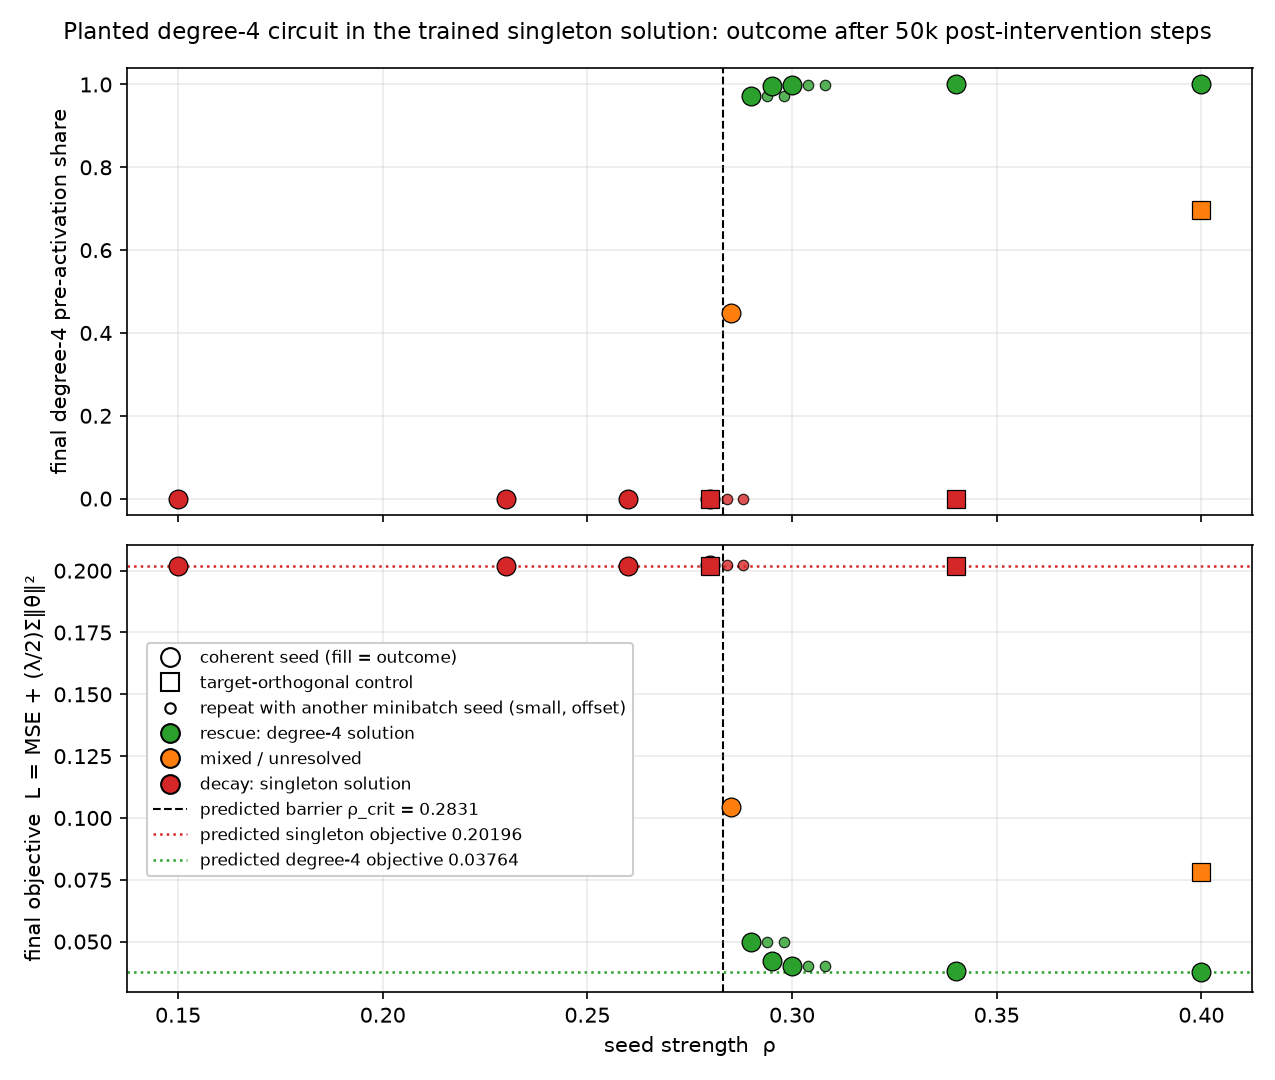
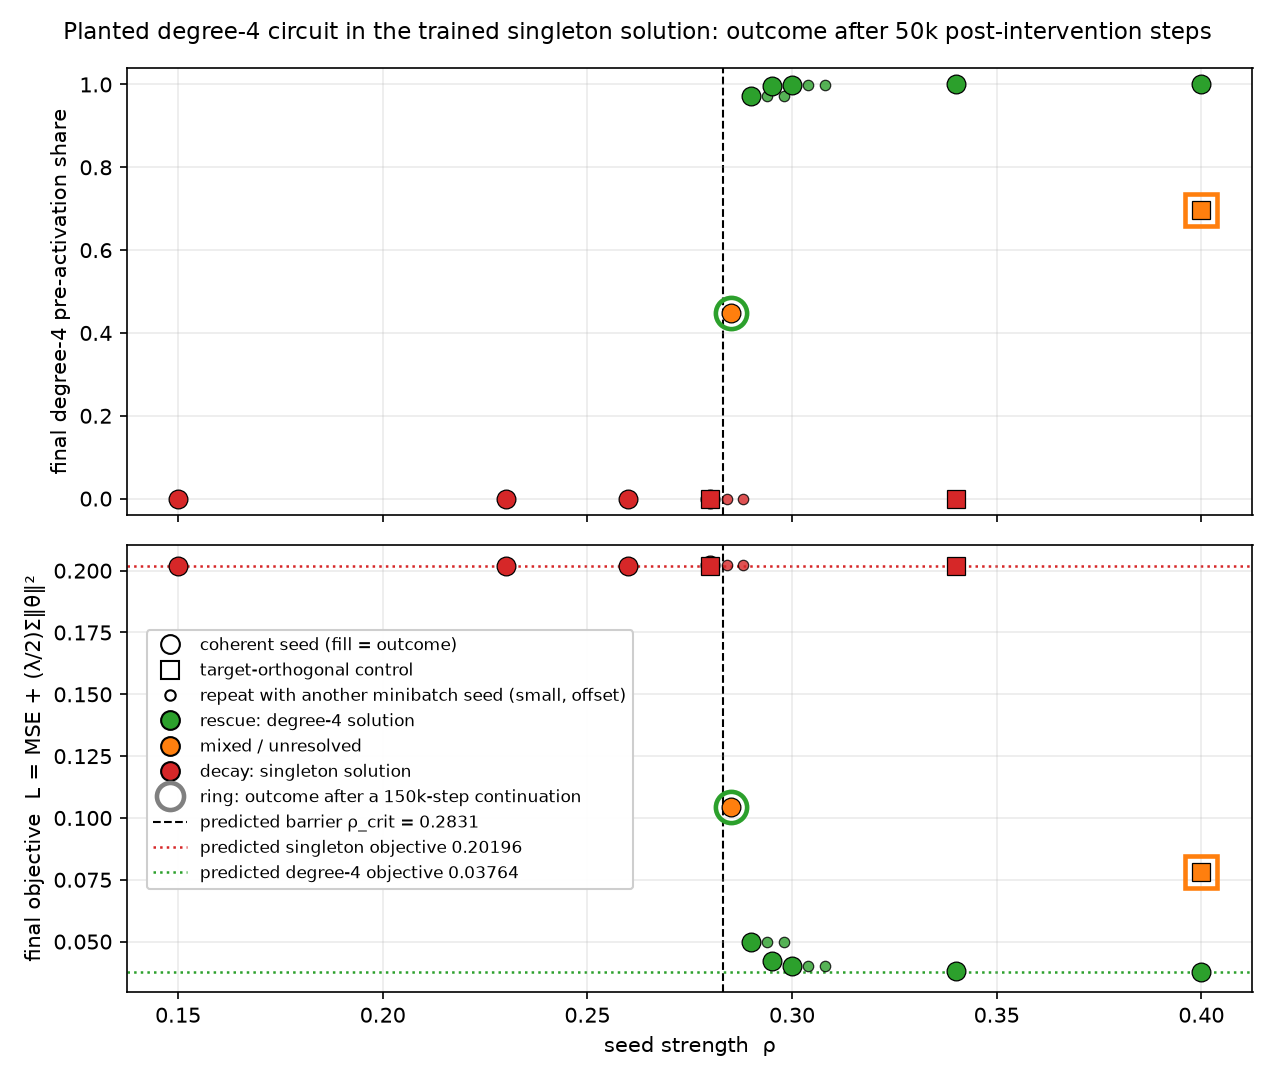
reports: planted degree-4 circuit experiment, final figures with 150k continuations and README

diff --git a/experiments/rank1_bottleneck/plot_plant_degree4.py b/experiments/rank1_bottleneck/plot_plant_degree4.py
@@ -69,6 +69,12 @@ def summary_figure(df: pd.DataFrame, out: str, tag: str) -> None:
                 primary = r.seed == base_seed
                 ax.plot(r.rho + (0 if primary else 0.004 * (seeds.index(r.seed))), r[col], marker,
                         ms=9 if primary else 5, mfc=OUTCOME_COLOR[r.outcome], mec="k", mew=0.6, alpha=1 if primary else 0.8, zorder=3)
+        # arms continued under another tag: ring in the continuation's outcome color
+        for _, r in df[(df.tag != tag) & (df.seed == base_seed)].iterrows():
+            m = main[(main.arm == r.arm) & (main.seed == base_seed)]
+            if len(m):
+                ax.plot(r.rho, m[col].iloc[0], "o" if r.kind == "coherent" else "s", ms=15, mfc="none",
+                        mec=OUTCOME_COLOR[r.outcome], mew=2.2, zorder=4)
         ax.axvline(RHO_CRIT, color="k", ls="--", lw=1, zorder=1)
         ax.grid(alpha=0.25); ax.set_ylabel(ylab)
     axes[0].set_ylim(-0.04, 1.04)
@@ -83,6 +89,7 @@ def summary_figure(df: pd.DataFrame, out: str, tag: str) -> None:
                Line2D([], [], marker="o", ls="", ms=9, mfc=OUTCOME_COLOR["rescue"], mec="k", label="rescue: degree-4 solution"),
                Line2D([], [], marker="o", ls="", ms=9, mfc=OUTCOME_COLOR["mixed"], mec="k", label="mixed / unresolved"),
                Line2D([], [], marker="o", ls="", ms=9, mfc=OUTCOME_COLOR["decay"], mec="k", label="decay: singleton solution"),
+               Line2D([], [], marker="o", ls="", ms=13, mfc="none", mec="gray", mew=2.2, label="ring: outcome after a 150k-step continuation"),
                Line2D([], [], color="k", ls="--", lw=1, label=f"predicted barrier ρ_crit = {RHO_CRIT}"),
                Line2D([], [], color="#d62728", ls=":", lw=1.2, label=f"predicted singleton objective {L_SINGLE}"),
                Line2D([], [], color="#2ca02c", ls=":", lw=1.2, label=f"predicted degree-4 objective {L_D4}")]

diff --git a/reports/rank1_bottleneck/README.md b/reports/rank1_bottleneck/README.md
@@ -110,3 +110,31 @@ Q ~ 5.7: Q <= 5.4 pure degree-4 route (share 1), Q >= 6.2 pure singleton route (
 through a slow takeover (at Q = 5.2 the share is 0.03 at 25k, 0.79 at 50k, 1.0 at 100k). MSE and full loss
 are nearly flat across the transition (5.0e-3 / 0.136 on the degree-4 side, 5.5e-3 / 0.14 at Q = 6) and
 then decrease slowly with Q on the singleton side (2.5e-3 / 0.098 at Q = 9).
+
+## Experiment 1: planting a degree-4 circuit into the trained singleton solution
+
+`plantd4_Q8_summary.png`, `plantd4_Q8_traj.png`, `plantd4_Q8_summary.csv`; driver
+`experiments/rank1_bottleneck/plant_degree4.py`, figures `plot_plant_degree4.py`, tests
+`tests/test_plant_degree4.py`. Source: `runs/rank1_d8_s44_nobn_wd1e-2_Q8.0_50k/checkpoints/final.pt`
+(sha256 41849d5c..., step 50000; singleton solution: MSE 5.0e-3, L 0.2023, degree-4 share 1e-7).
+Construction: M = 4 silent units J = [195, 404, 471, 872] (output RMS 1.4e-8), two directions U orthogonal
+to all embedding rows, prepared baseline W_base = W0 (I - U U^T) with rows J and readout entries J zeroed
+(predictions preserved to 8e-16, penalty change -1.3e-6), then V_p += rho/sqrt2 u1, V_q += rho/sqrt2 u2,
+W_J = rho/sqrt(2M) S U^T, r_J = rho/sqrt(M) s1 s2. Validated (float64 / float32): y_rho - y_base =
+rho^3/4 chi_8 to 1e-15 / 5e-7, no other Walsh coefficients, norm increase 3 rho^2, objective change
+-2(1-a_base) rho^3/4 + (rho^3/4)^2 + 3 lambda rho^2 / 2 to 1e-16 / 3e-12; projected regularized gradient
+onto the three templates = 2 e kappa_2 rho^2 - lambda rho to 1e-17. Every arm: fresh SGD (zero momentum
+buffers, momentum 0.9, lr 1e-3, wd 1e-2 on all three trained matrices, unused W_enc/W_dec excluded),
+batch 512, identical minibatch sequence (data seed 777; repeats 778/779), 50k post-intervention steps,
+exact full-cube diagnostics every 5 steps to 500, every 100 to 5k, then every 250. Run dirs
+`runs/plantd4_Q8_<arm>_s<seed>` (`analysis/`: intervention.json with all metadata + validation,
+trajectory.csv, final.json with the final singleton-only / degree-4-only ablations, templates.pt;
+`checkpoints/`: intervened.pt, final.pt) split across swish and the 85.10.218.46:35675 box; 150k-step
+continuations under `plantd4_Q8L_*`. Local copies of every `analysis/` folder in `analysis_output/plantd4_Q8/`.
+Result: finite seed barrier between rho = 0.28 (decay, 3 minibatch seeds) and 0.285 (rescue at 150k; 0.45
+share at 50k), prediction 0.2831; rescued arms reach L 0.0376-0.040 (prediction 0.03764), decayed arms
+0.2020 (prediction 0.20196). Along coherent trajectories b, w, r stay equal to 0.3% and a_planted = b w r / 4
+to < 1e-4 until the takeover (symmetric-circuit approximation holds); the barrier is a basin boundary
+(rho = 0.30 shrinks the rest first and grows only slowly for 20k steps). Target-orthogonal controls: decay at
+0.28 and 0.34 (planted units overtaken by singleton leakage), persistent mixed solution at 0.40 (share
+0.70, L 0.078 unchanged from 50k to 150k, planted coefficient 0.64 above the symmetric formula).
